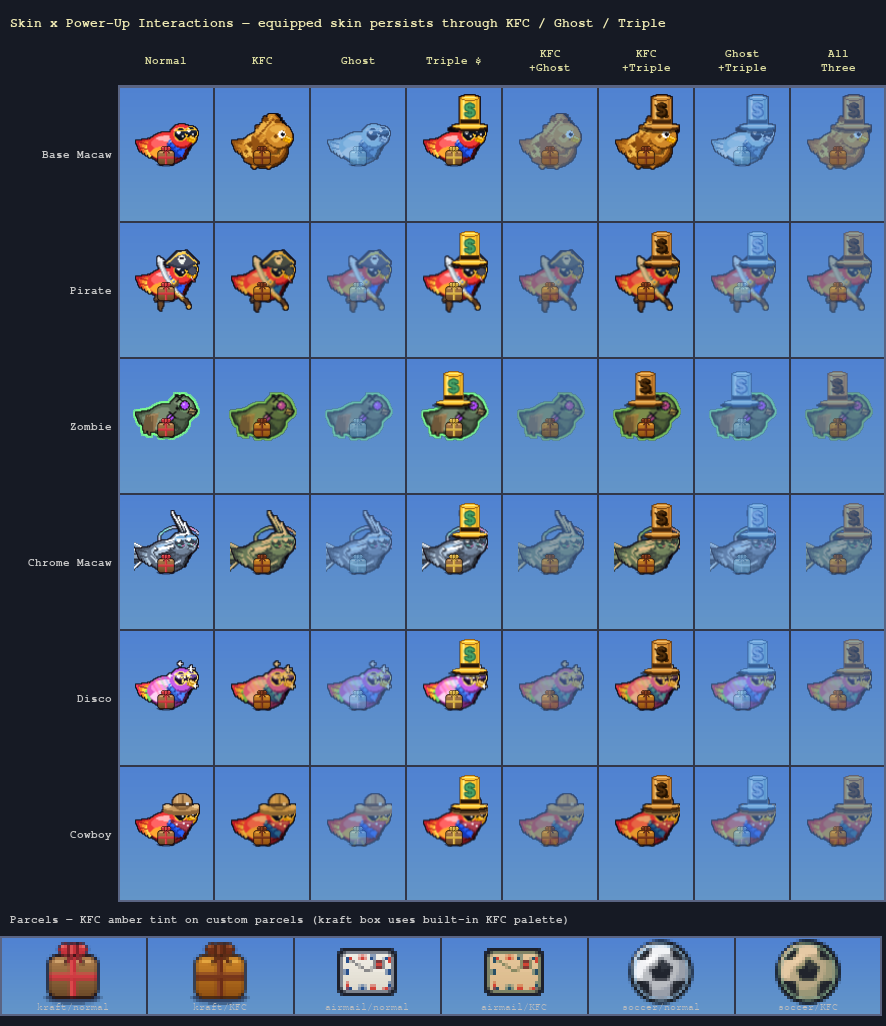
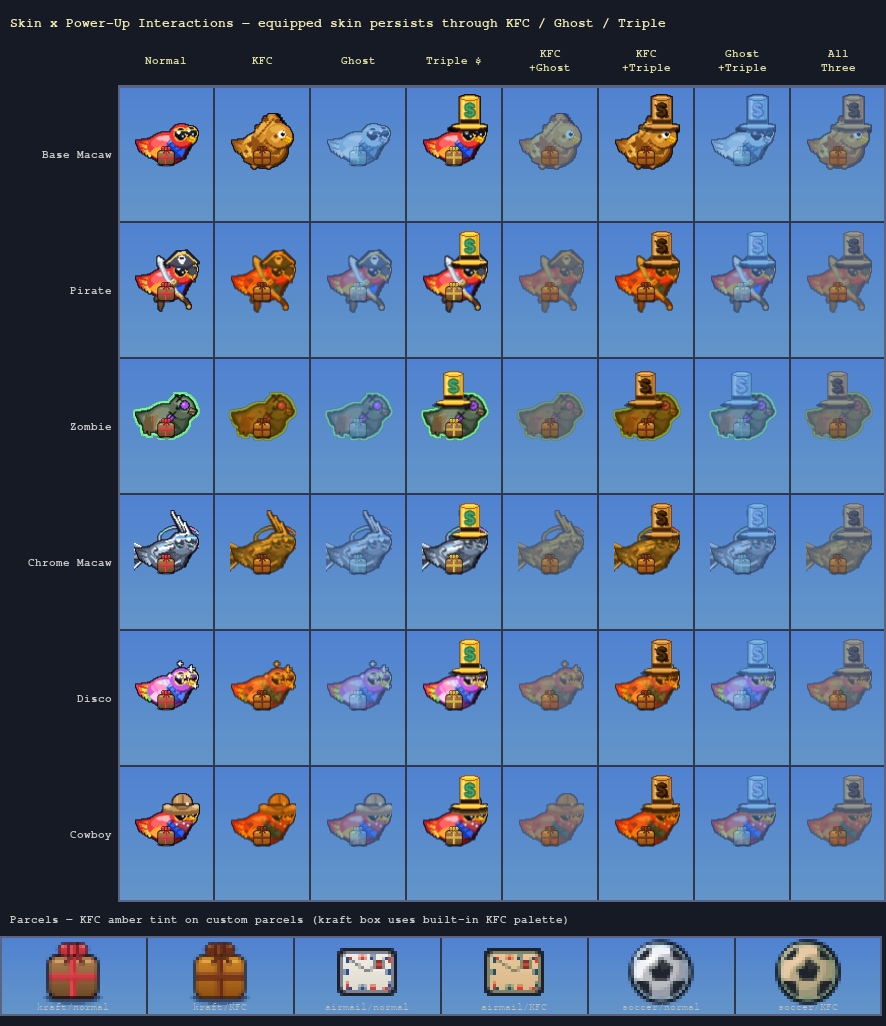
Fix KFC batter effect on equipped skins: replace weak amber tint with BLEND_RGB_MULT
The previous approach used _cyan_tint_in_place toward amber at strength=0.55,
which barely changed the colour of darker pixels due to BLEND_RGBA_MIN clamping.
Equipped skins in KFC mode just looked slightly warmer rather than deep-fried.

The new _apply_kfc_batter() uses BLEND_RGB_MULT to multiply every pixel into the
crispy batter palette (silver→golden amber, blue→dark brown, whites→pure amber),
then a small BLEND_RGB_ADD lift so dark areas read as dark-brown rather than
near-black.  Crispy spots, crackle lines, and grease sheen from the bespoke KFC
macaw are then overlaid at the shared 68×104 frame coordinates.

Reference figure regenerated.

Claude-Session: https://claude.ai/code/session_015DxSDkCugqKBGykq6WeVnV

diff --git a/game/parrot.py b/game/parrot.py
@@ -1006,6 +1006,60 @@ _SKIN_COMBOS: "dict[str, dict[tuple, list]]" = {}
 _SKIN_COMBO_ROT_CACHE: "dict[tuple, pygame.Surface]" = {}
 
 
+def _apply_kfc_batter(surf: pygame.Surface) -> None:
+    """Convert a skin frame to deep-fried KFC golden-brown in-place.
+
+    Uses RGB-multiply (no alpha damage) to map all skin colours into the
+    crispy batter palette, then a small additive lift so dark areas read
+    as dark brown rather than near-black, then overlays the same crispy-
+    spot and crackle-line marks used by the bespoke KFC macaw sprite.
+
+    Sprite (sx, sy) coordinates map to the shared 68x104 outlined
+    composite frame via fp(sx, sy) = (sx+2, sy+22).
+    """
+    # Multiply every visible pixel toward the crispy-gold base (alpha untouched)
+    surf.fill(_CRISPY_GOLD, special_flags=pygame.BLEND_RGB_MULT)
+    # Additive lift: prevents highlights from collapsing to near-black
+    surf.fill((45, 28, 2), special_flags=pygame.BLEND_RGB_ADD)
+
+    w, h = surf.get_size()
+    overlay = pygame.Surface((w, h), pygame.SRCALPHA)
+
+    def fp(sx, sy):
+        # sprite → outlined 68×104 frame: outline_pad=2, PARROT_DY=20 → offset (2, 22)
+        return (sx + 2, sy + 22)
+
+    # Dense crispy spots (body + head positions from _build_fried_frame)
+    for sx, sy, r in (
+        (20, 30, 3), (37, 27, 3), (43, 35, 3),
+        (24, 39, 2), (38, 39, 2), (28, 34, 2),
+        (32, 26, 2), (44, 30, 2), (16, 37, 2),
+        (34, 42, 2), (40, 24, 1), (22, 43, 1),
+        (52, 18, 2), (45, 22, 2), (51, 25, 1),
+    ):
+        pygame.draw.circle(overlay, (*_CRISPY_SPOT, 200), fp(sx, sy), r)
+
+    # Crackle lines — dark valley + gold ridge pair = raised batter texture
+    for x1, y1, x2, y2 in (
+        (14, 30, 23, 25), (37, 25, 47, 30),
+        (15, 39, 25, 44), (40, 38, 50, 33),
+        (22, 34, 31, 29), (34, 39, 43, 36),
+    ):
+        p1, p2 = fp(x1, y1), fp(x2, y2)
+        pygame.draw.line(overlay, (*_CRISPY_DARK, 180), p1, p2, 1)
+        pygame.draw.line(overlay, (*_CRISPY_LIGHT, 130),
+                         (p1[0] - 1, p1[1] - 1), (p2[0] - 1, p2[1] - 1), 1)
+
+    # Golden grease sheen
+    sheen = pygame.Surface((30, 7), pygame.SRCALPHA)
+    pygame.draw.ellipse(sheen, (255, 225, 145, 110), sheen.get_rect())
+    overlay.blit(sheen, fp(17, 20))
+
+    # Mask overlay to the (now-fried) sprite silhouette so marks don't leak
+    overlay.blit(surf, (0, 0), special_flags=pygame.BLEND_RGBA_MIN)
+    surf.blit(overlay, (0, 0))
+
+
 def build_skin_powerup_composites(skin_id: str) -> None:
     """Pre-bake the 7 non-knight power-up combos x 4 frames for one skin.
 
@@ -1031,9 +1085,7 @@ def build_skin_powerup_composites(skin_id: str) -> None:
                 for fi in range(4):
                     img = get_skin_frame(skin_id, fi, 0.0).copy()
                     if kfc_f:
-                        # Amber fried-chicken tint; same RGB as the bespoke KFC
-                        # macaw, strength matches the spectral-ghost default.
-                        _cyan_tint_in_place(img, tint=(210, 138, 42), strength=0.55)
+                        _apply_kfc_batter(img)
                     if triple_f:
                         # $ stovepipe hat at the shared macaw brim anchor.
                         # Raw-composite anchor (47,30) + 2 px outline pad = (49,32)
